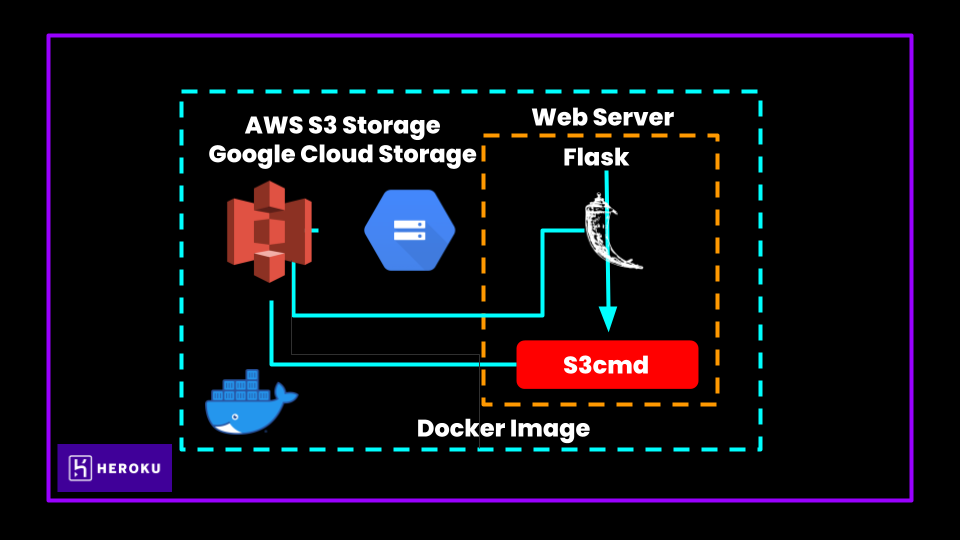
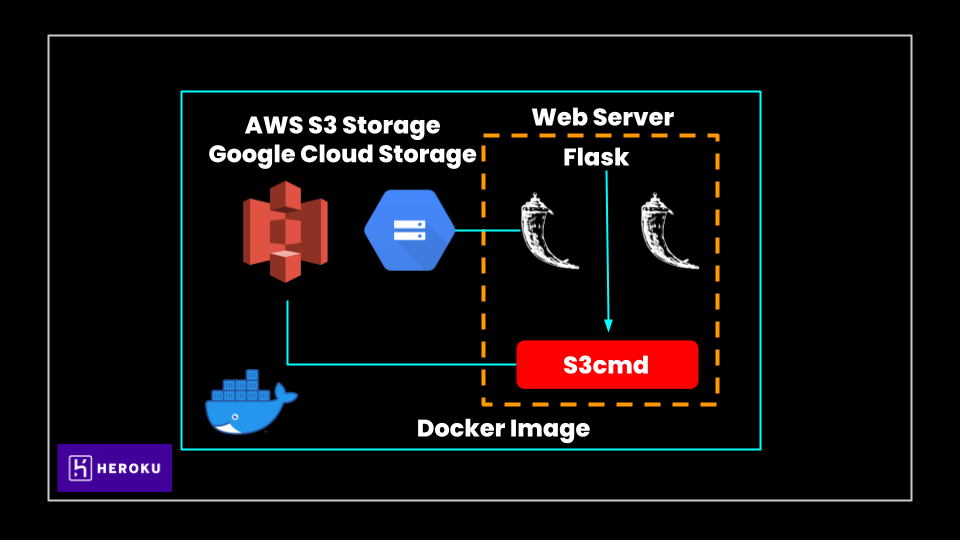
Update README.md

diff --git a/README.md b/README.md
@@ -3,46 +3,36 @@
 </p>
 
 ### Description
-This repository contains code that helps you build a twitter clone and helps you deploy it to cloud as FaaS .i.e., Serverless Twitter. Take a look at [setup.md](https://github.com/SyamSundarKirubakaran/serverless-twitter/blob/master/docs/setup.md) to learn how to setup this project. You can also find two mobile clients consuming these serverless APIs .i.e., **Android**(v0.5) and **iOS**(WIP).
+This repository contains code that helps you build a web service and helps you deploy it to cloud as FaaS .i.e., Wrapper API for AWS S3 and Google Cloud Storage. Take a look at [setup.md](https://github.com/Sai-Adarsh/mtx-hacks/blob/master/docs/setup.md) to learn how to setup this project. You can also communicate with multiple SDKs to perform the same jobs .i.e., **AWS S3** and **Googe Cloud Storage**.
 
 ### Functions
 
-- **POST** - Create User
+- **POST** - PUT files
     - `https://{{apiId}}.execute-api.us-east-1.amazonaws.com/dev/user`
-- **POST** - Create Tweet
+- **POST** - PUT folders
     -  `https://{{apiId}}.execute-api.us-east-1.amazonaws.com/dev/tweet`
-- **GET** - Get All Tweets
+- **POST** - GET foles
     -  `https://{{apiId}}.execute-api.us-east-1.amazonaws.com/dev/tweet`
-- **GET** - Get Tweets by Specific User
+- **POST** - GET folder
     -  `https://{{apiId}}.execute-api.us-east-1.amazonaws.com/dev/tweet/specific/{authType}/{userId}`
-- **PATCH** - Like / Unlike a Tweet
+- **PATCH** - Switch Config between AWS and GCP
     -  `https://{{apiId}}.execute-api.us-east-1.amazonaws.com/dev/tweet/{tweetId}`
-- **PATCH** - Follow / Unfollow an User
+- **PATCH** - List all buckets
     -  `https://{{apiId}}.execute-api.us-east-1.amazonaws.com/dev/user`
-- **GET** - Get All Users
-    -  `https://{{apiId}}.execute-api.us-east-1.amazonaws.com/dev/user`
-- **GET** - Get Specific User
-    -  `https://{{apiId}}.execute-api.us-east-1.amazonaws.com/dev/user/specific/{authType}/{userId}`
-- **DELETE** - Delete Tweet
-    -  `https://{{apiId}}.execute-api.us-east-1.amazonaws.com/dev/tweet/{tweetId}`
-- **GET** - Get Signed URL for Image Upload
-    -  `https://{{apiId}}.execute-api.us-east-1.amazonaws.com/dev/tweet/signedUrl/{tweetId}`
 
 You can also import the provided Postman Collection to take a quick look at the exposed endpoints. Also make sure to fill up `apiId` and `authToken` environment variables to make endpoints intract with the deplpoyed serverless application.
 
-Build the image using the following command
+### Run
 
-```bash
-$ docker build -t simple-flask-app:latest .
-```
-
-Run the Docker container using the command shown below.
-
-```bash
-$ docker run -d -p 5000:5000 simple-flask-app
-```
-
-The application will be accessible at http:127.0.0.1:5000 or if you are using boot2docker then first find ip address using `$ boot2docker ip` and the use the ip `http://<host_ip>:5000`
+* Build the Image:
+  ```bash
+  $ docker build -t simple-flask-app:latest .
+  ```
+* Run the Docker container using the command shown below.
+  ```bash
+  $ docker run -d -p 5000:5000 simple-flask-app
+  ```
+* The application will be accessible at `http://127.0.0.1:5000` or if you are using `boot2docker`, fin IP address using `$ boot2docker ip` and the use the ip `http://<host_ip>:5000`
 
 
 **Screenshots**<br />
